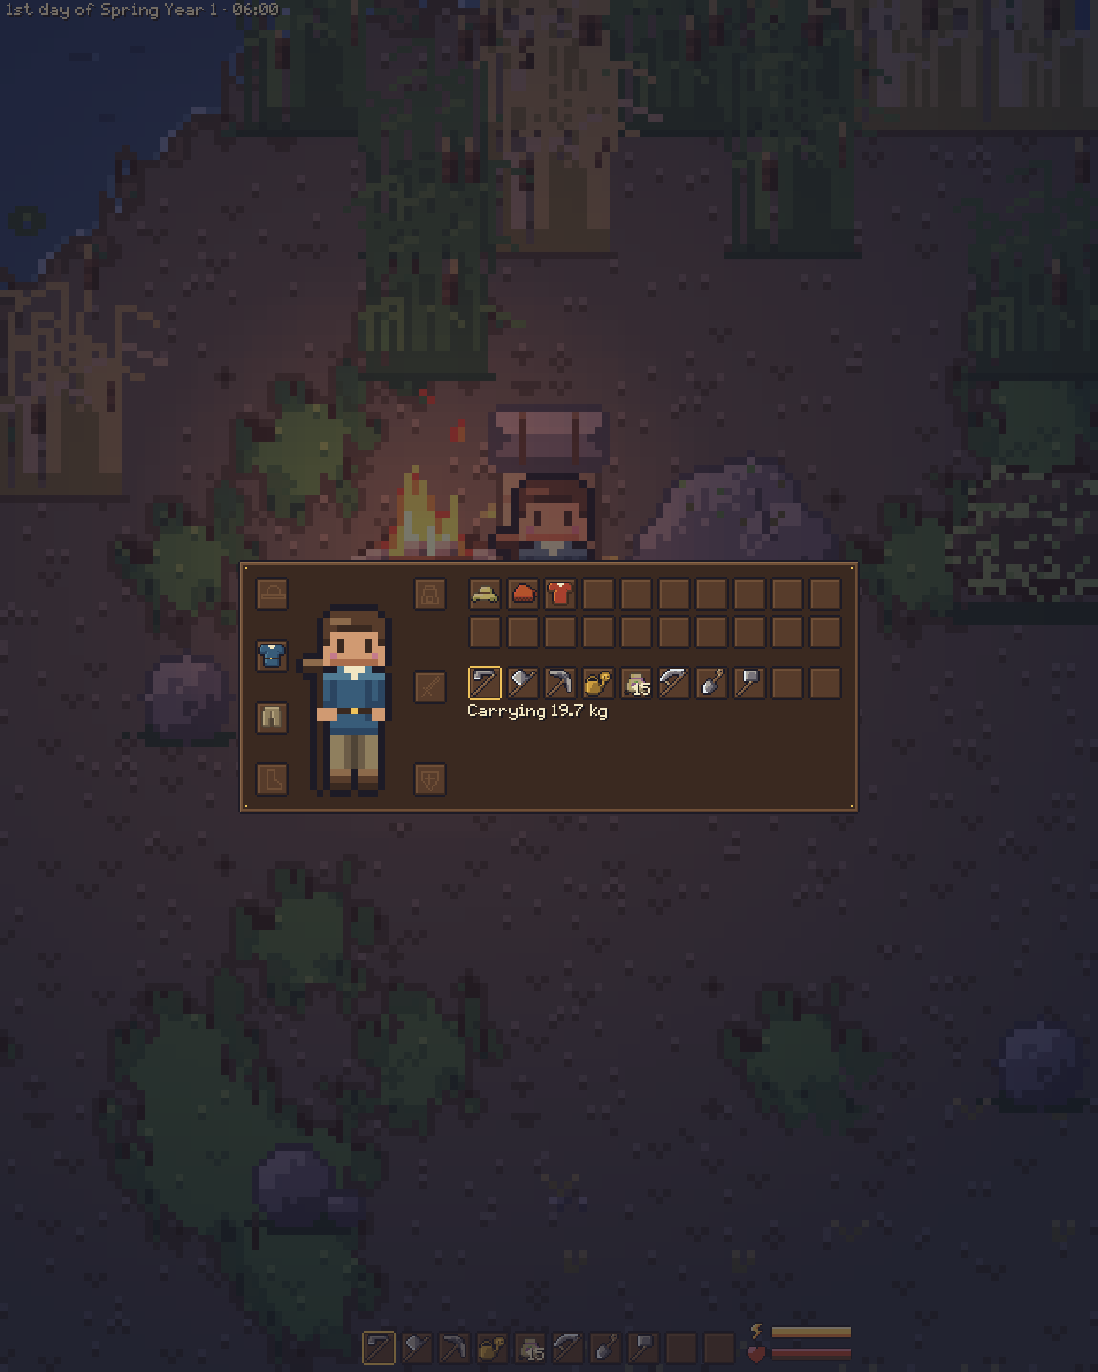
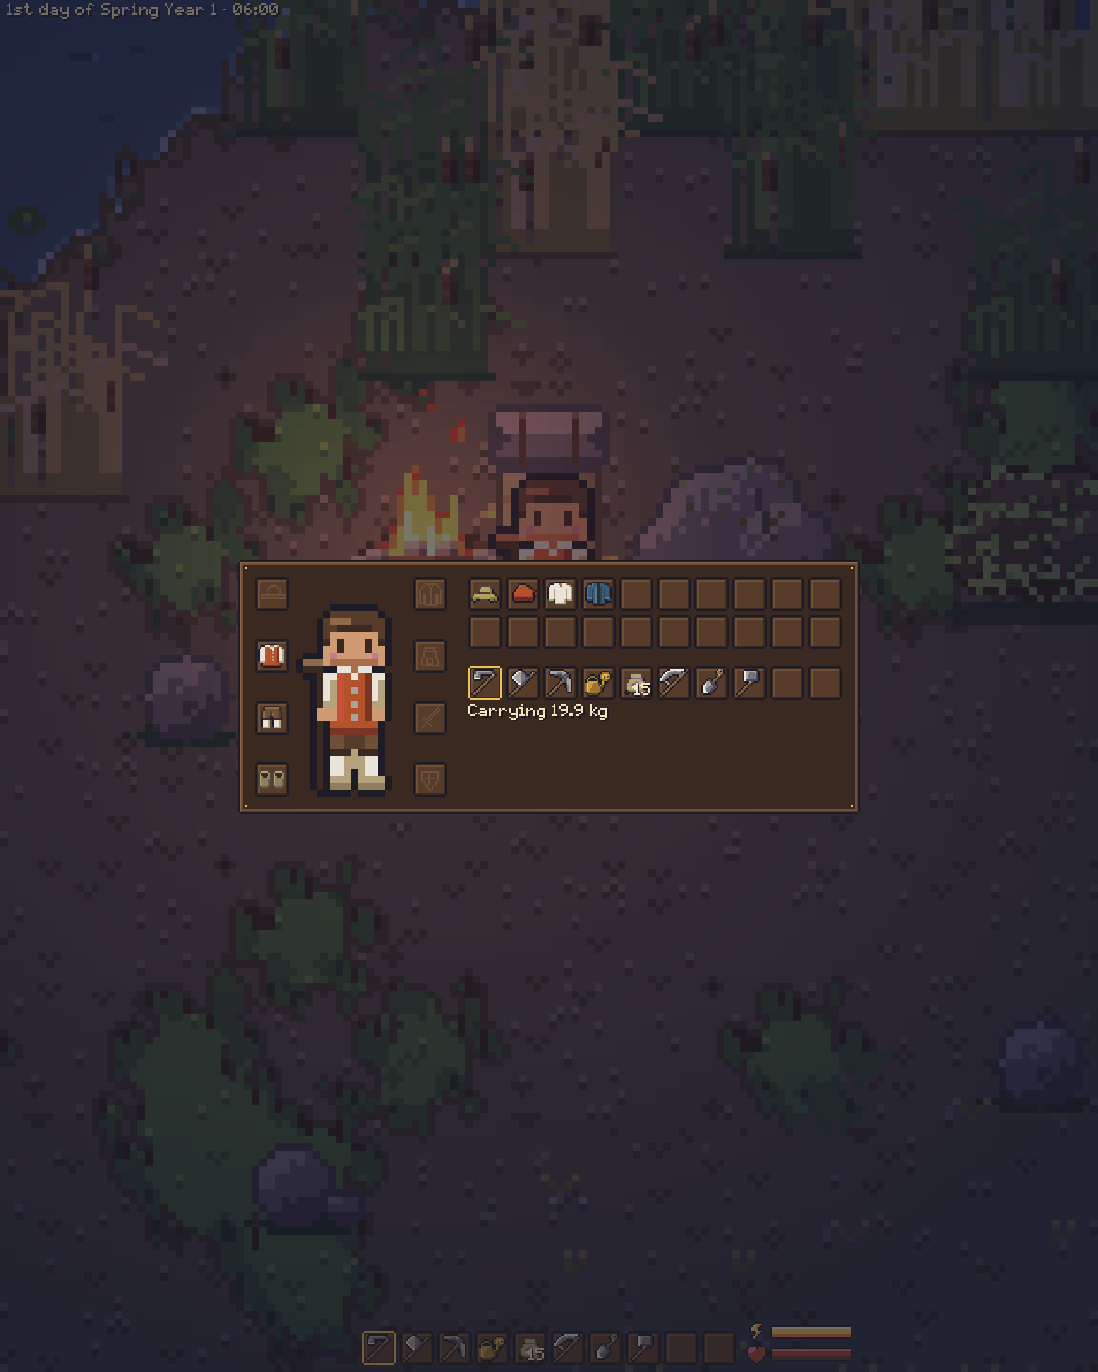
Docs: the period clothes in SPEC, README and the art guide; tick task 53
SPEC's new game and equipment slots, the README's character section,
the art guide's bigger item 1 marked done, the decisions in QUESTIONS,
tools/README's character row, and the character screenshot refreshed
with the new outfit and the coat slot.

diff --git a/SPEC.md b/SPEC.md
@@ -252,7 +252,8 @@ top of classic pixel art (details under "Lighting and look").
   - An inventory screen shows all slots; items can be moved between slots.
 - **Character screen** (decided 2026-11-05): Tab opens one screen with the character and
   their equipment on one side and the inventory on the other.
-  - Equipment slots: head, body, legs, feet, back, main hand, off hand. Clothes, armour
+  - Equipment slots: head, body, legs, feet, coat, back, main hand, off hand (coat added in
+    task 53, for a jacket over the body item). Clothes, armour
     and later weapons, shields and backpacks are items with a slot; worn items show on the
     character (each slot is a sprite layer).
   - Items move between inventory slots and fitting equipment slots by clicking (pick up,
@@ -260,8 +261,13 @@ top of classic pixel art (details under "Lighting and look").
     while an item is picked up. Right-click equips or unequips at once.
   - Worn items count toward the carried weight.
   - Hair and body are the character's look, not equipment.
-  - New game: tunic and trousers worn; a straw hat, a knitted cap and a spare shirt in the
-    inventory. The straw hat has a low crown and a wide brim drooping at its ends (task 52,
+  - New game (period clothes since task 53, North Sea coast 1700–1800): a red waistcoat
+    over a linen shirt, brown knee breeches with white stockings and wooden clogs worn; a
+    straw hat, a knitted cap, a spare linen shirt and a short blue jacket in the inventory.
+    The clothes are light (0.3 to 0.6 kg), so a new game carries 19.9 kg, under the 20 kg
+    that cost no extra energy. Three hair styles: short, shoulder length, and long tied back
+    with a ribbon. Old saves (version 8) get the tunic and trousers renamed to the waistcoat
+    and breeches and clogs on their bare feet. The straw hat has a low crown and a wide brim drooping at its ends (task 52,
     it read as a pith helmet); the knitted cap is a red wool stocking cap, as the guide's
     period dress has it.
 - **Movement keys:** arrow keys and WASD (decided 2026-11-05). All keys can be changed in

diff --git a/TASKS.md b/TASKS.md
@@ -56,11 +56,22 @@ icon in the hotbar and were left.
 
 ## 53. Period clothes for the player
 
-- [ ] Done
+- [x] Done
 
 docs/art-style.md bigger item 1: knee breeches, white stockings, clogs, a red waistcoat
 over a linen shirt, a short blue or brown jacket, long hair tied back; every animation and
 the collapse frames; the starting clothes and the spare shirt become the period ones.
+
+Done: one commit per piece. Breeches (3 rows, banded at the knee) over white stockings
+that run into the feet; a red waistcoat with tin buttons over a linen shirt (`clothes_0`),
+the spare shirt the plain linen one (`clothes_1`); a short open blue jacket in a new `coat`
+equipment slot and layer (between clothes and hair), in the starting backpack; wooden clogs,
+the first feet item, worn from the start; hair 2, mid-brown tied back with a black ribbon
+(F6 cycles three). No new colours. Ids: `tunic` is `waistcoat`, `trousers` is `breeches`,
+`shirt` kept; save version 9 renames them in the equipment, inventory, ground items and
+chests (indoors too) and puts clogs on the bare feet. The clothes got lighter so a new game
+still carries under the free 20 kg (19.9). Hats unchanged (`HAT_TOP` still -30).
+Screenshot: character.
 
 ## 54. Knicks, dykes and marsh ditches
 

diff --git a/docs/art-style.md b/docs/art-style.md
@@ -346,10 +346,12 @@ copper watering can. Kept here as the record of why.
 
 ### Bigger items
 
-1. **Period clothes for the character** (medium). The most-seen sprite wears a generic
-   tunic and long trousers. Knee breeches, white stockings, clogs, a red waistcoat over a
-   linen shirt, a short blue or brown jacket; long hair tied back. Then women's dress for
-   NPCs (apron, bodice, cap).
+1. ~~**Period clothes for the character**~~ done (task 53). The most-seen sprite wore a
+   generic tunic and long trousers. Now: brown knee breeches over white stockings, pale
+   wooden clogs, a red waistcoat with tin buttons over a linen shirt, a short blue jacket in
+   a coat slot of its own, and long hair tied back with a ribbon as a third hair style. All
+   from existing colours. Still to do: women's dress for NPCs (apron, bodice, cap), and
+   buckled shoes for best.
 2. **Knicks, dykes and marsh ditches** (large). The features that make the land read as
    Schleswig-Holstein: autotiled Knick hedges on banks, dykes with turf and sheep, straight
    water ditches with reeds instead of fences, pollard willows. Wattle fences and

diff --git a/tools/README.md b/tools/README.md
@@ -28,7 +28,7 @@ by topic. Where is a thing drawn?
 | `terrain.py` | The ground: water, floodplain, wetland, grass, soil, and their decorations. |
 | `trees.py` | Oak, spruce, pine, dead tree, bushes, ferns, stones, boulders and stumps. |
 | `camp.py` | The fireplace and the bedroll. |
-| `character.py` | The player's layers (body, clothes, hair, hats, hoe), their passing out and the sleeping "z". |
+| `character.py` | The player's layers (body, breeches and stockings, clogs, shirt and waistcoat, jacket, hair, hats, hoe), their passing out and the sleeping "z". |
 | `interior.py` | The room tiles and the furniture inside the buildings, the hearth too. |
 | `buildings.py` | The four buildings, plain and with lit windows. |
 | `seasons.py` | The other looks (spring, autumn, bare, frost, snow, dusting, leaf-out steps) made from the summer art by colour remaps and overlays. Also adds its colours to the palette. |

diff --git a/README.md b/README.md
@@ -125,7 +125,9 @@ half-timbered barn, and the plank shack.
 
 ### Character, inventory and equipment
 
-The character is drawn in layers, so anything they wear shows in the world. Press Tab to
+The character is drawn in layers, so anything they wear shows in the world. They dress as
+on the North Sea coast in the 18th century: a red waistcoat over a linen shirt, knee breeches
+with white stockings, wooden clogs, and a short blue jacket and hats to put on. Press Tab to
 open the character screen, where you move items between the inventory and the equipment
 slots. The hotbar (the ten slots at the bottom of the screen, keys 1 to 0) holds your tools
 and seeds and is extra room: it takes nothing from the backpack's 20 slots, so you carry 30

diff --git a/QUESTIONS.md b/QUESTIONS.md
@@ -33,6 +33,10 @@ Answered questions move into SPEC.md and are removed here.
    - **`meadow_light` was not merged** (task 52): it is now the Scots pine's needle colour,
      so the palette is full again (64 of 64);
    - **a new game carries the red knitted cap** besides the straw hat (task 52).
+   - **the jacket has an equipment slot of its own, `coat`** (task 53), so it goes over
+     either body item and comes off; **old saves get clogs** on their bare feet; and **the
+     clothes got lighter** (0.3 to 0.6 kg each), so a new game still carries under the free
+     20 kg.
 9. **Code review** (docs/code-review-2026-11-06.md): its findings became tasks 63-71 and run
    one at a time beside the art tasks. Default: go ahead.
 
